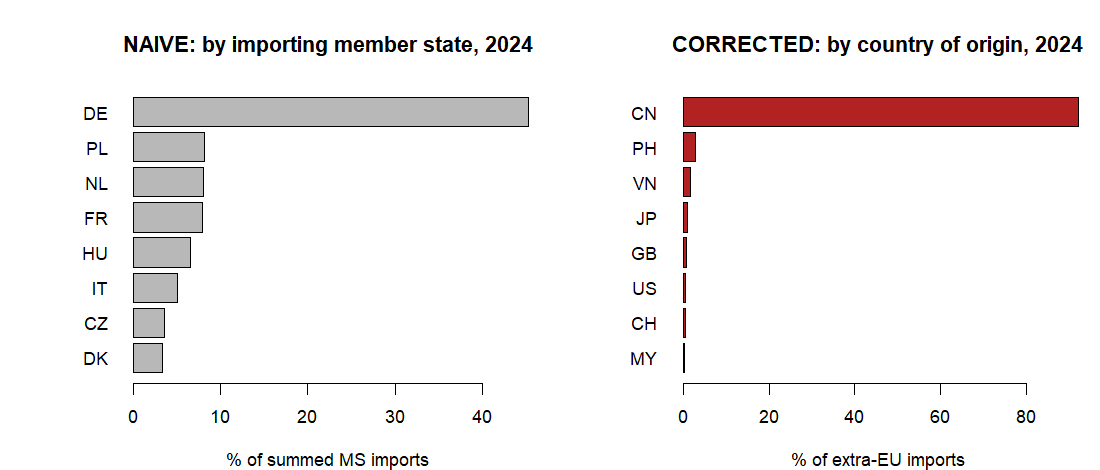
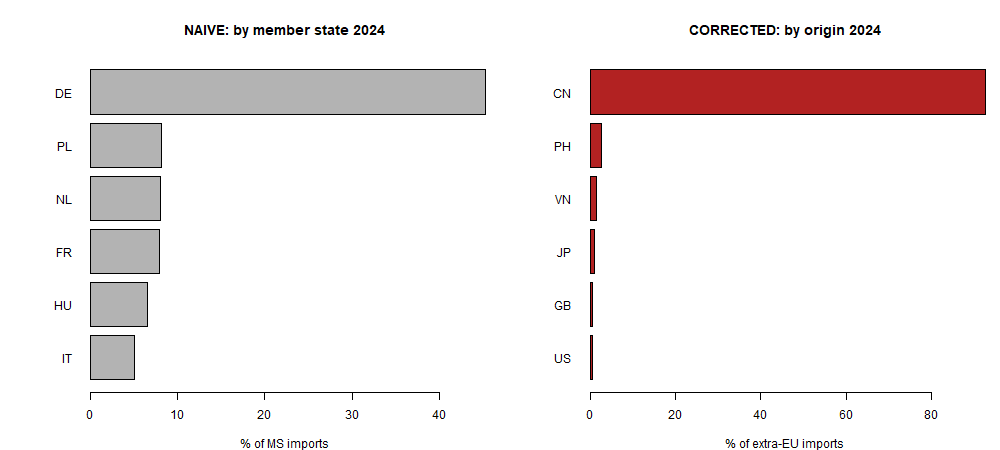
Regenerate offline deliverable from current code
build_static.R rebuilds the no-install dashboard.html plus the three committed
PNGs (headline / trend / value_vs_qty) from dependency_core.R, so the static
deliverable matches the Shiny app and the corrected figures instead of the stale
earlier export. Base R only.

diff --git a/out/dashboard.html b/out/dashboard.html
@@ -1,1 +1,42 @@
-<!doctype html><html><head><meta charset='utf-8'><title>EU rare-earth magnet dependence</title><style>body{font-family:-apple-system,Segoe UI,Arial,sans-serif;max-width:980px;margin:40px auto;color:#222;line-height:1.5;padding:0 16px}h1{font-size:26px}h2{font-size:19px;margin-top:34px;border-bottom:2px solid #b22222;padding-bottom:4px}.kpi{display:inline-block;background:#faf3f3;border:1px solid #e3c9c9;border-radius:8px;padding:14px 20px;margin:6px 10px 6px 0}.kpi b{font-size:28px;color:#b22222;display:block}.kpi span{font-size:13px;color:#666}img{max-width:100%;margin:12px 0}table{border-collapse:collapse;width:100%;font-size:14px}td,th{border-bottom:1px solid #ddd;padding:6px 10px}th{text-align:left;background:#f6f6f6}.note{background:#f7f7f7;border-left:4px solid #999;padding:12px 16px;font-size:14px;color:#444;margin-top:14px}footer{margin-top:40px;font-size:12px;color:#888}</style></head><body><h1>Who does the EU really depend on for rare-earth magnets?</h1><p>Extra-EU imports of rare-earth permanent magnets (CN 8505 11 10), 2023–2024. Public Eurostat Comext data.</p><div class='kpi'><b>92.16%</b><span>China share, by value (2024)</span></div><div class='kpi'><b>90.36%</b><span>China share, by tonnage</span></div><div class='kpi'><b>0.851</b><span>Supplier HHI (&gt;0.25 = highly concentrated)</span></div><div class='kpi'><b>€NA</b><span>Extra-EU imports, 2024</span></div><h2>The trap, and the truth</h2><p>Ranking EU <b>member states</b> by their magnet imports (left) spreads the picture across Germany, Poland, the Netherlands and others — and the Dutch figure is largely <b>Rotterdam quasi-transit</b>, goods cleared in NL but bound elsewhere, not Dutch demand. Stepping back to the EU as a single entity and ranking by <b>country of origin</b> (right) reveals the real dependency.</p><img src='headline.png'><h2>The dependence holds by value and by tonnage</h2><img src='value_vs_qty.png'><h2>Trend</h2><img src='trend.png'><h2>Top origins, 2024</h2><table><tr><th>Origin</th><th>Value (€)</th><th>Value share</th><th>Qty share</th></tr><tr><td>CN</td><td style='text-align:right'>NA</td><td style='text-align:right'>92.16%</td><td style='text-align:right'>90.36%</td></tr><tr><td>PH</td><td style='text-align:right'>101 904 052</td><td style='text-align:right'>2.85%</td><td style='text-align:right'>3.7%</td></tr><tr><td>VN</td><td style='text-align:right'>59 032 733</td><td style='text-align:right'>1.65%</td><td style='text-align:right'>1.2%</td></tr><tr><td>JP</td><td style='text-align:right'>33 473 649</td><td style='text-align:right'>0.94%</td><td style='text-align:right'>1.25%</td></tr><tr><td>GB</td><td style='text-align:right'>22 211 006</td><td style='text-align:right'>0.62%</td><td style='text-align:right'>1.39%</td></tr><tr><td>US</td><td style='text-align:right'>19 136 385</td><td style='text-align:right'>0.53%</td><td style='text-align:right'>0.14%</td></tr><tr><td>CH</td><td style='text-align:right'>14 187 463</td><td style='text-align:right'>0.4%</td><td style='text-align:right'>0.59%</td></tr><tr><td>MY</td><td style='text-align:right'>8 090 193</td><td style='text-align:right'>0.23%</td><td style='text-align:right'>0.09%</td></tr></table><div class='note'><b>Method.</b> Extra-EU imports only; for extra-EU imports the Comext partner field is the country of origin. Bloc/aggregate codes (EU, EA, EXT_*, INT_*, WORLD) are excluded so shares are not double-counted. CN 8505 11 10 (the rare-earth-specific line) exists from 2023. Note: magnets finished in third countries from Chinese material may understate true China dependence, so these figures are a floor.</div><footer>Generated from Eurostat Comext (DS-045409). Public data. Prepared as an independent analytical demonstration.</footer></body></html>
+<!doctype html><html lang="en"><head><meta charset="utf-8">
+<title>EU import dependency - rare-earth magnets (Comext)</title>
+<style>
+ body{font-family:system-ui,Segoe UI,Arial,sans-serif;max-width:980px;margin:2rem auto;padding:0 1rem;color:#1a1a1a;line-height:1.5}
+ h1{font-size:1.5rem} h2{font-size:1.1rem;margin-top:2rem;border-top:1px solid #eee;padding-top:1rem}
+ .kpis{display:flex;gap:.75rem;flex-wrap:wrap;margin:1rem 0}
+ .kpi{flex:1;min-width:150px;border:1px solid #ddd;border-radius:8px;padding:.7rem;text-align:center}
+ .kpi .v{font-size:1.5rem;font-weight:700;color:firebrick} .kpi .l{font-size:.75rem;color:#555}
+ img{max-width:100%;height:auto;border:1px solid #eee;border-radius:6px}
+ table{border-collapse:collapse;width:100%;font-size:.9rem} th,td{padding:.35rem .6rem;border-bottom:1px solid #eee;text-align:left}
+ td.n,th.n{text-align:right} .note{font-size:.85rem;color:#555} footer{margin-top:2rem;font-size:.8rem;color:#777}
+</style></head><body>
+<h1>Who does the EU really depend on for rare-earth magnets?</h1>
+<p>Extra-EU imports of CN <b>8505 11 10</b> (rare-earth permanent magnets), corrected for the
+Rotterdam/Antwerp transit effect. The <b>naive</b> view ranks by importing member state and is
+distorted by goods cleared in NL/BE but bound elsewhere; the <b>corrected</b> view ranks by country
+of origin. Source: Eurostat Comext, public data. Latest year: 2024.</p>
+<div class="kpis">
+ <div class="kpi"><div class="v">92.7%</div><div class="l">China share (value)</div></div>
+ <div class="kpi"><div class="v">91.1%</div><div class="l">China share (tonnage)</div></div>
+ <div class="kpi"><div class="v">0.86</div><div class="l">Concentration (HHI value)</div></div>
+ <div class="kpi"><div class="v">EUR 0.78B</div><div class="l">Total extra-EU imports</div></div>
+</div>
+<h2>Naive vs corrected</h2>
+<p class="note">The naive panel spreads dependence across member states; the corrected panel reveals a single origin.</p>
+<img src="headline.png" alt="Naive vs corrected">
+<h2>China share over time</h2><img src="trend.png" alt="Trend">
+<h2>Value vs tonnage by origin (2024)</h2><img src="value_vs_qty.png" alt="Value vs tonnage">
+<h2>Top origins, 2024</h2>
+<table><thead><tr><th>Origin</th><th class="n">Value (EUR)</th><th class="n">Tonnes</th><th class="n">Value %</th><th class="n">Tonnage %</th></tr></thead>
+<tbody><tr><td>CN</td><td class='n'>727 661 958</td><td class='n'>18 246.4</td><td class='n'>92.7%</td><td class='n'>91.1%</td></tr>
+<tr><td>PH</td><td class='n'>20 596 736</td><td class='n'>681.0</td><td class='n'>2.6%</td><td class='n'>3.4%</td></tr>
+<tr><td>VN</td><td class='n'>11 867 653</td><td class='n'>221.4</td><td class='n'>1.5%</td><td class='n'>1.1%</td></tr>
+<tr><td>JP</td><td class='n'>6 968 642</td><td class='n'>229.7</td><td class='n'>0.9%</td><td class='n'>1.1%</td></tr>
+<tr><td>GB</td><td class='n'>4 658 800</td><td class='n'>256.1</td><td class='n'>0.6%</td><td class='n'>1.3%</td></tr>
+<tr><td>US</td><td class='n'>3 924 858</td><td class='n'>29.7</td><td class='n'>0.5%</td><td class='n'>0.1%</td></tr></tbody></table>
+<p class="note">Method: for extra-EU imports the Comext partner field is the country of origin. Bloc
+aggregates (EU, EA, EA21, EU27_2020, EXT_*, INT_*, WORLD, *_2020) are dropped on both reporter and
+partner, or origin totals double-count (~4.6x inflation while shares stay ~92%). CN 8505 11 10
+exists only from 2023.</p>
+<footer>Generated by build_static.R from public Eurostat Comext data. Independent demo - not affiliated with any institution.</footer>
+</body></html>